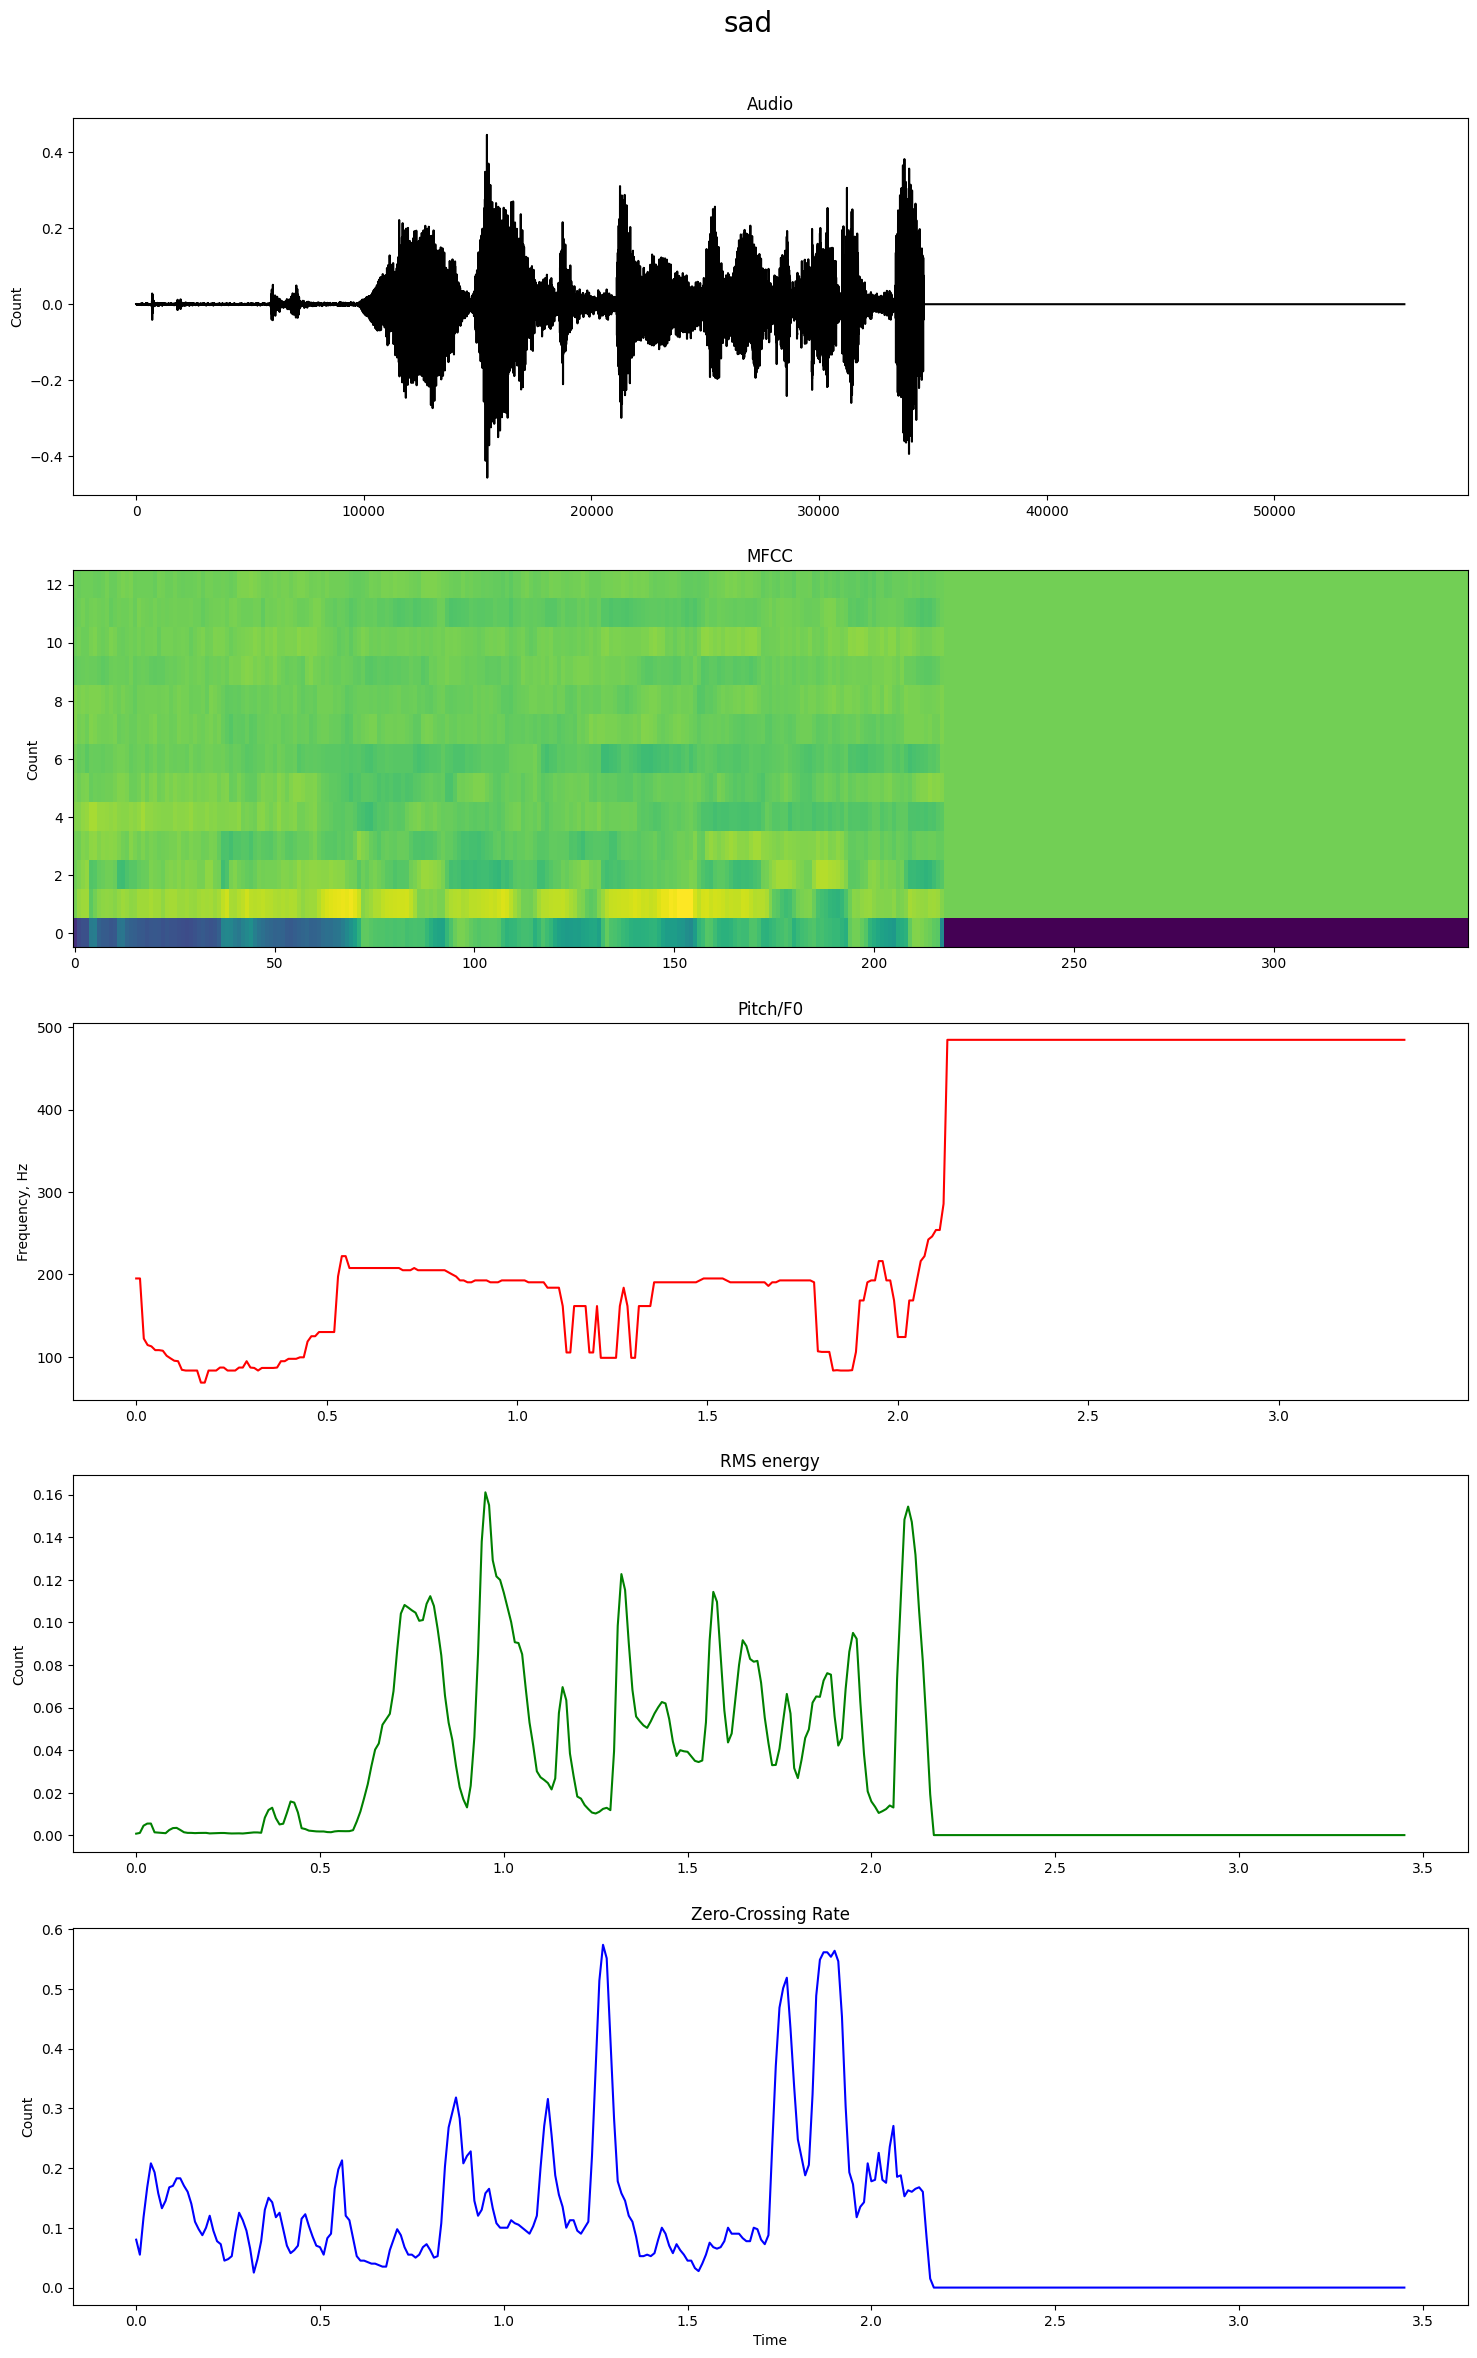
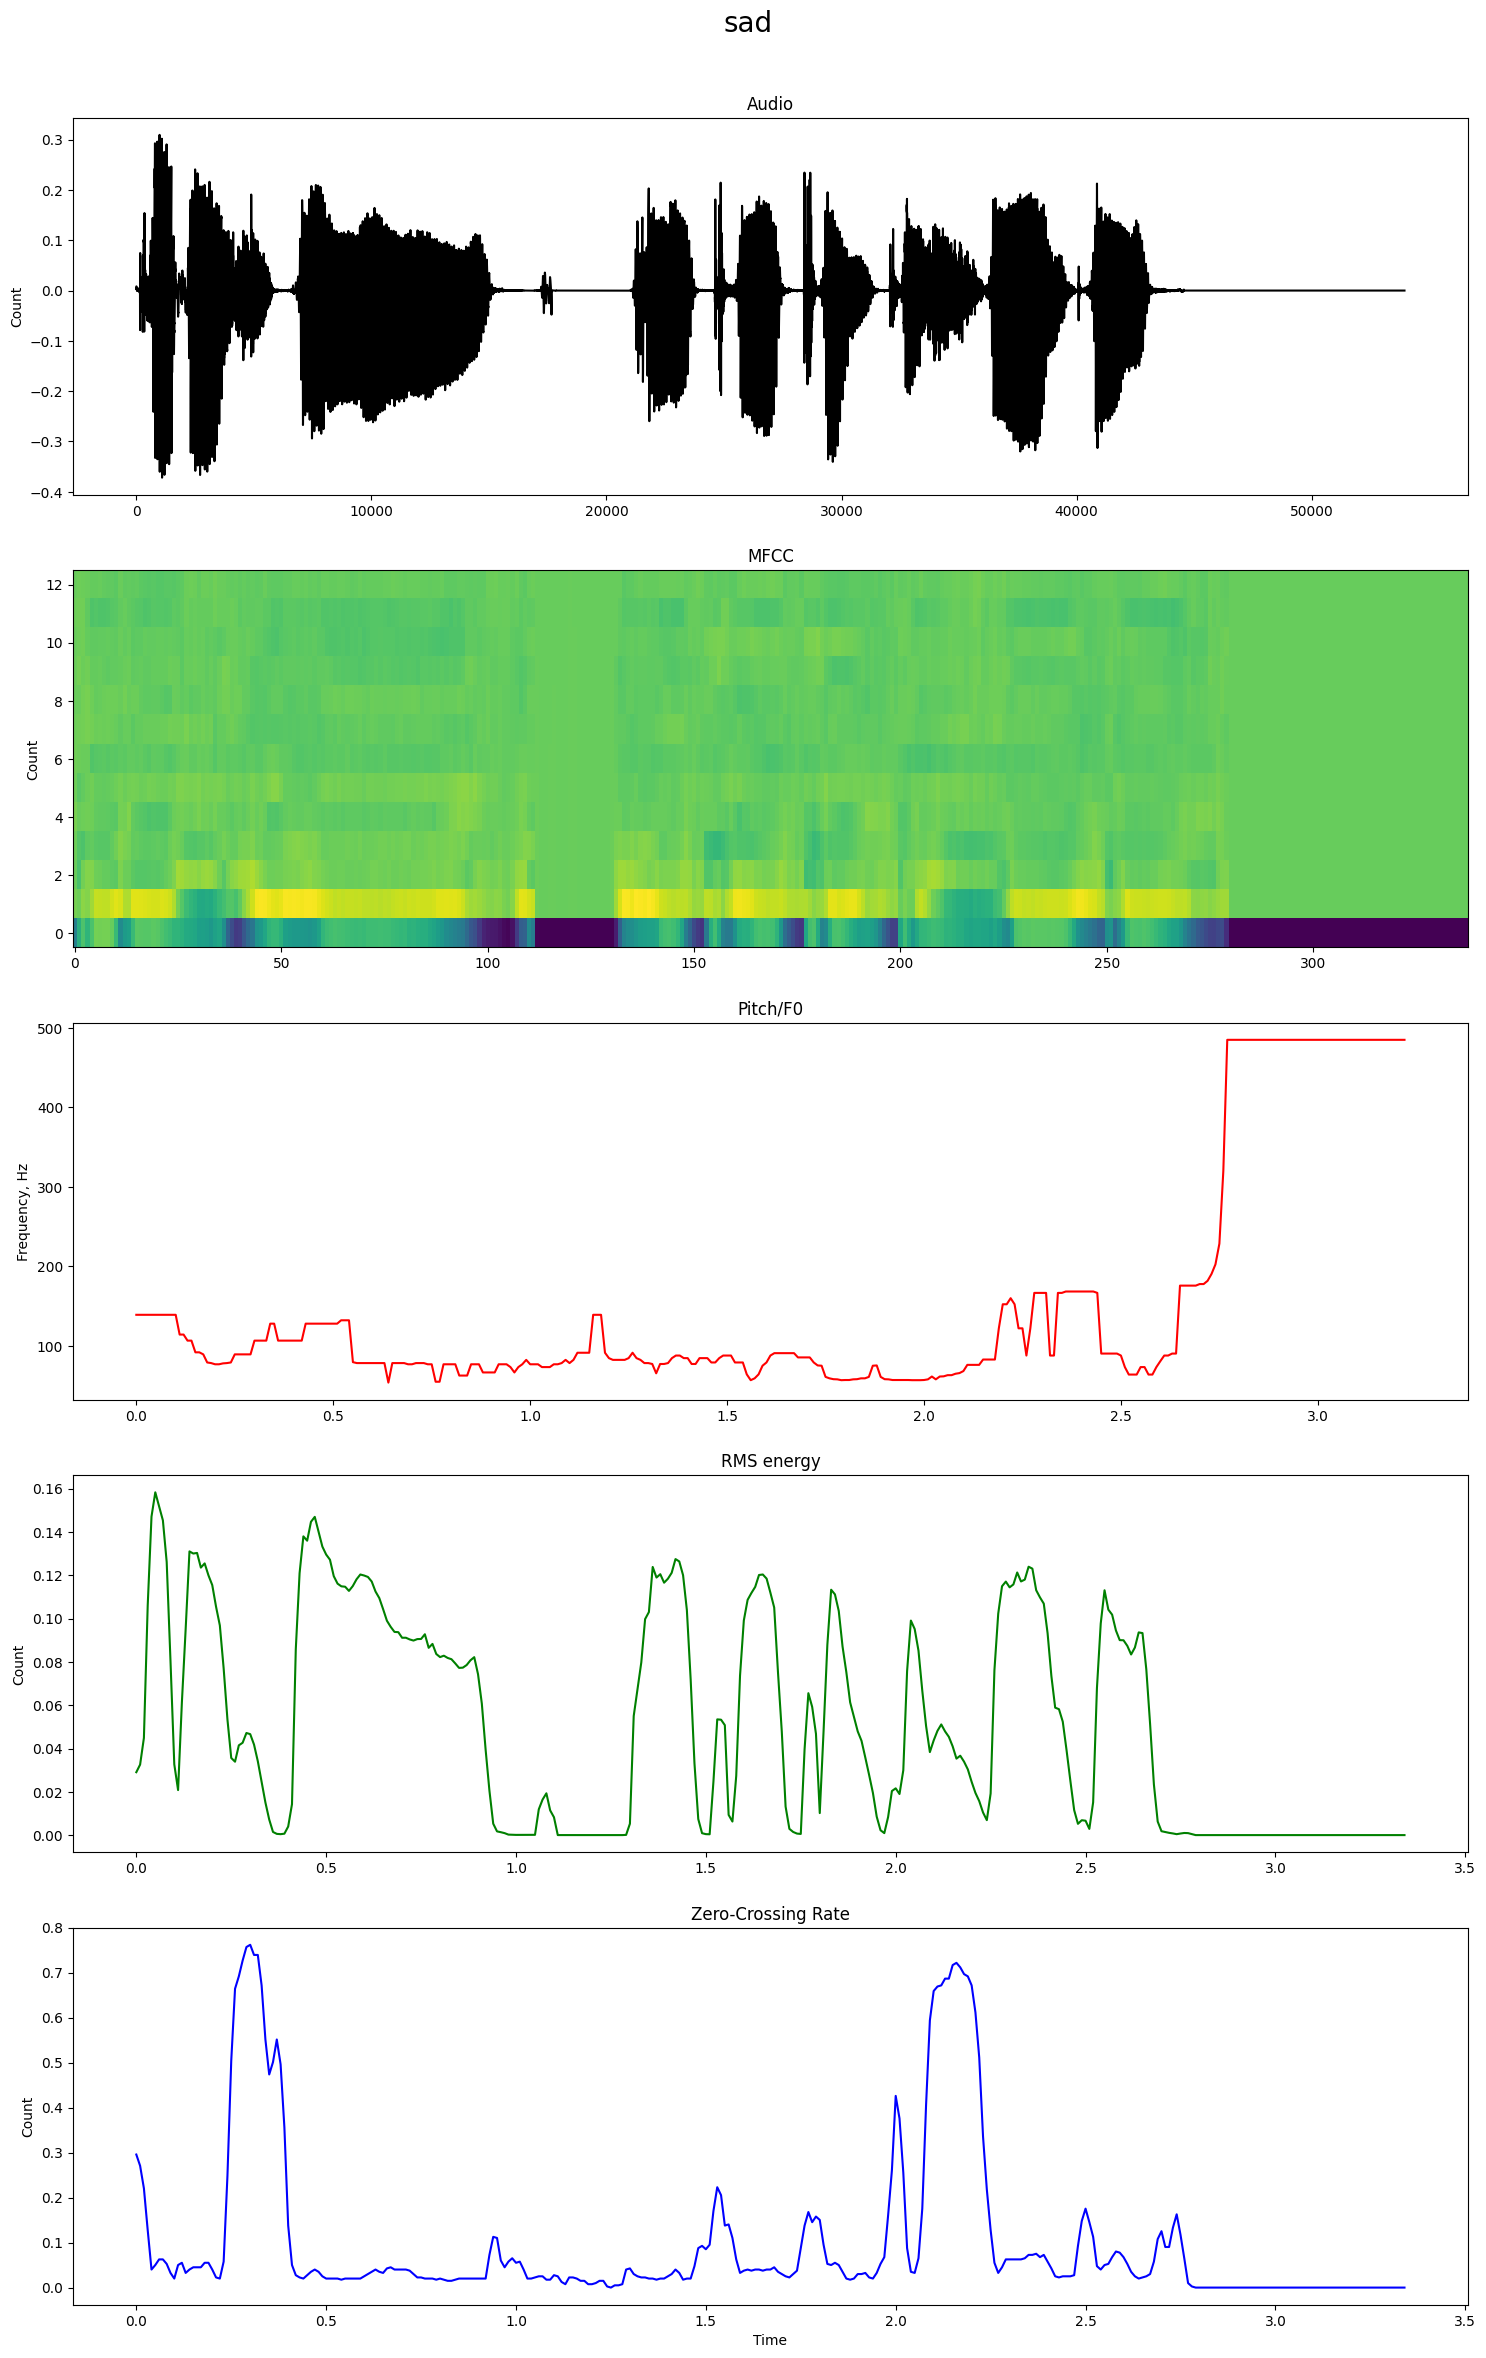
readme update

diff --git a/Assignment-1/README.md b/Assignment-1/README.md
@@ -2,7 +2,10 @@
 
 ## Spectral Features 
 
-![sad.png](images/sad.png)
+![angry.png](images/angry.png)
+![happy.png](images/happy.png)
+![sad.png](images/neutral.png)
+![neutral.png](images/sad.png)
 
 ### BaseLines
 